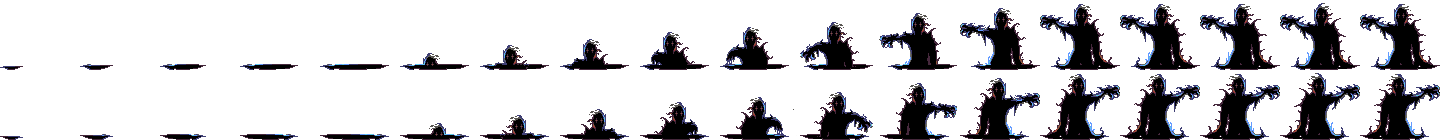
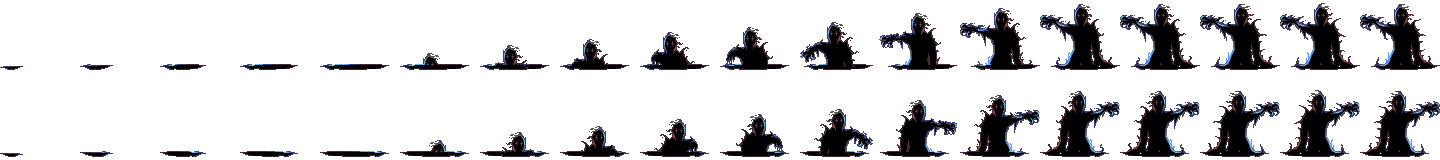
Изменен спрайт врага-тени: увеличена высота между фреймами, чтобы не было видно лишних частей.

diff --git a/module/Enemies/monster2.js b/module/Enemies/monster2.js
@@ -4,7 +4,7 @@ export class Monster2 extends Enemy {
     constructor(game) {
         super(game);
         this.spriteWidth = 80;
-        this.spriteHeight = 70;
+        this.spriteHeight = 80;
         this.width = this.spriteWidth * 1.5;
         this.height = this.spriteHeight * 1.5;
 
